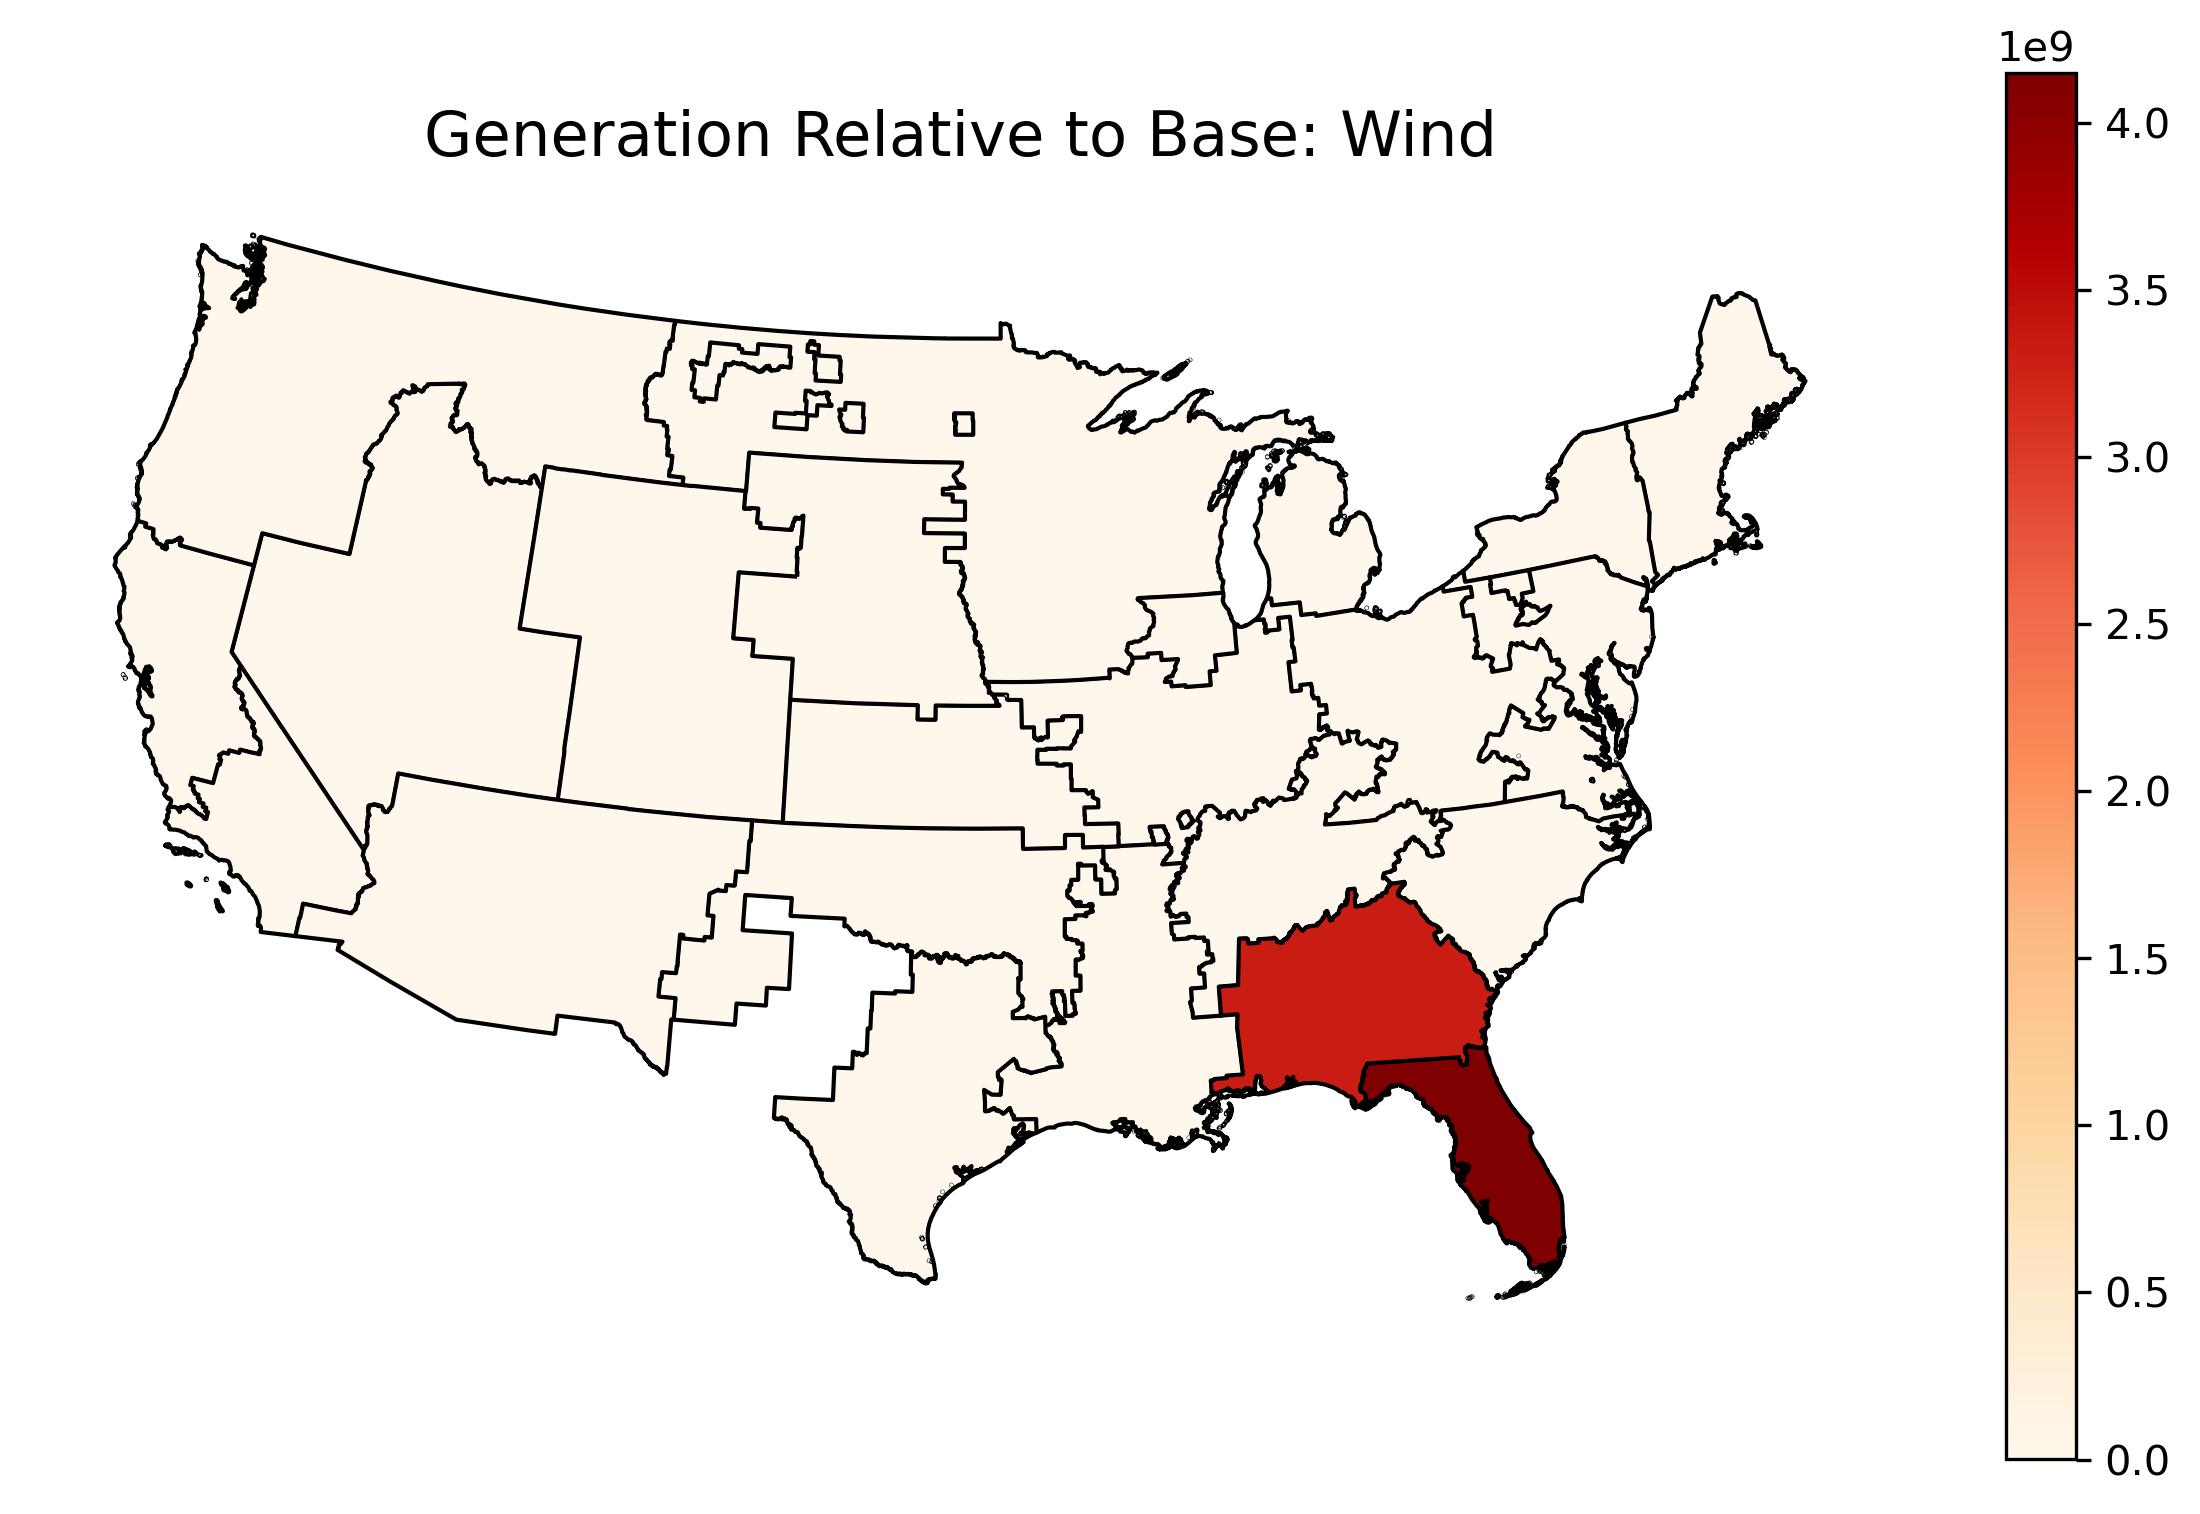
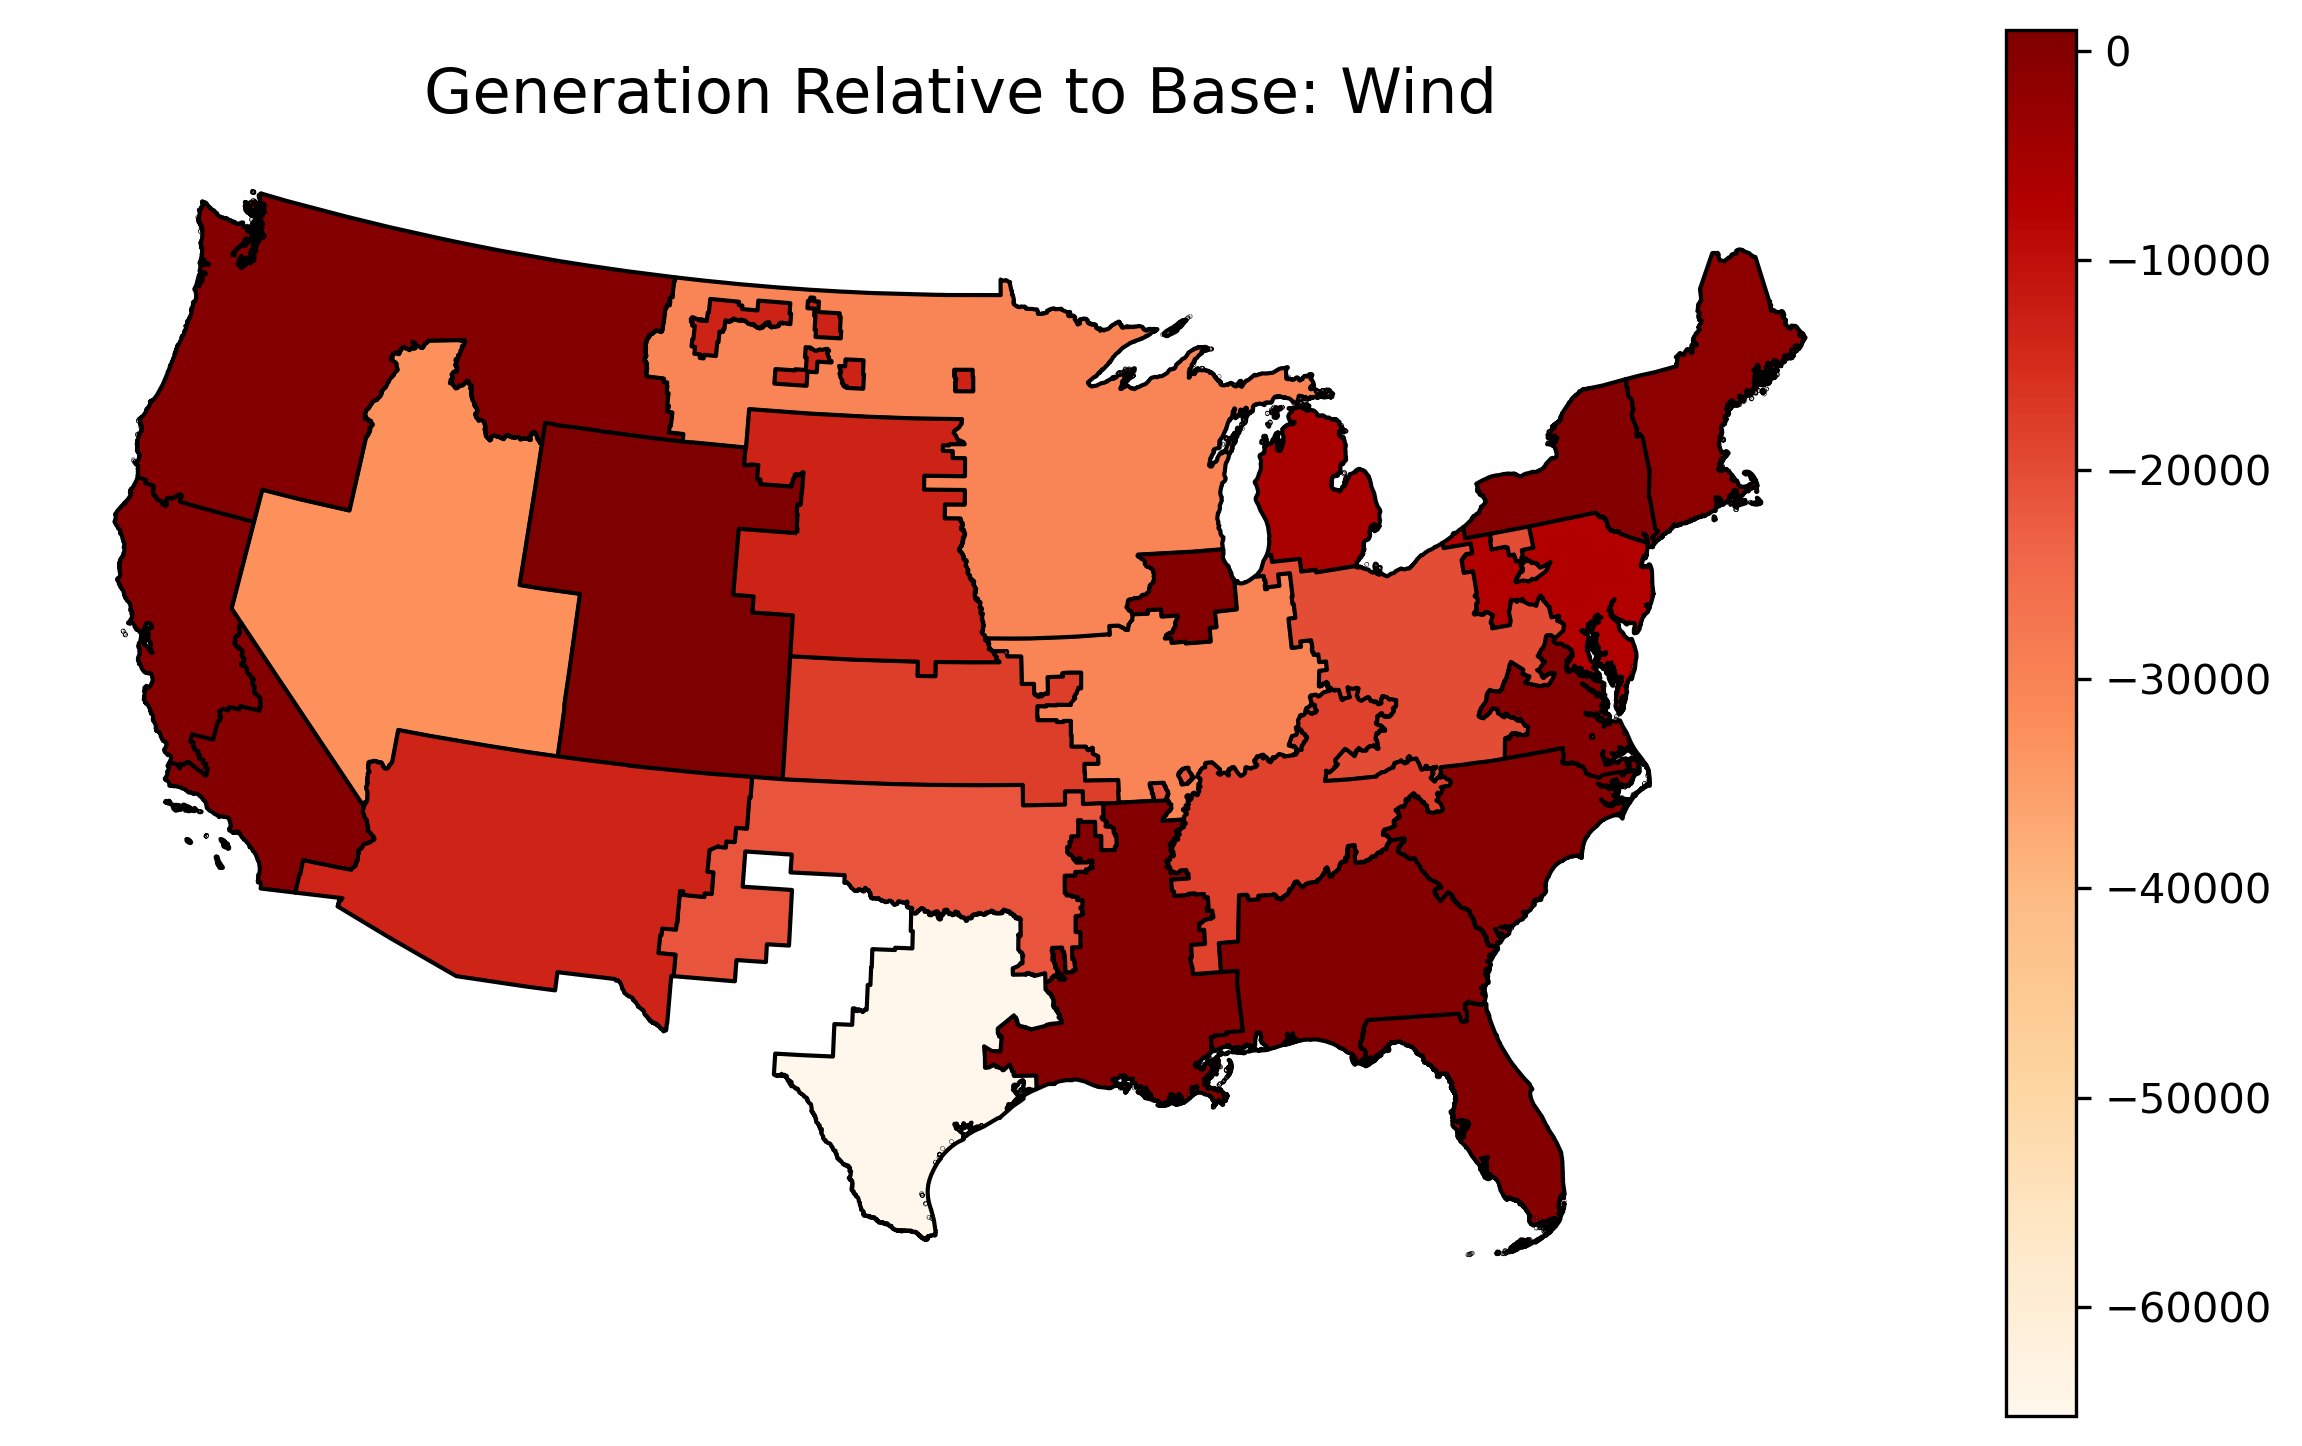
new bar chart

diff --git a/Endogenous/Endogenous_makeplots.py b/Endogenous/Endogenous_makeplots.py
@@ -276,22 +276,49 @@ for tech in ['Wind', 'Solar', 'Naturalgas', 'Coal', 'Electricity']:
             plotdata = plotdata[plotdata['period']==y]
 
             plotdata = plotdata.merge(base, on='model_regi', how='left')
-            plotdata['GenDif'] = plotdata[f'Energy_GWh_{tech}']/plotdata['Base_Energy_GWh']
+            plotdata['GenDif'] = plotdata[f'Energy_GWh_{tech}']-plotdata['Base_Energy_GWh']
+
+            vmin = plotdata['GenDif'].min()
+            vmax = plotdata['GenDif'].max()
 
             fig, ax = plt.subplots(1, 1, figsize=(10, 6))
             plotdata.plot(column='GenDif', 
-                            ax=ax, 
-                            legend=True, 
-                            cmap='OrRd',
-                            edgecolor='black')
+                        ax=ax, 
+                        legend=True, 
+                        cmap='OrRd',
+                        edgecolor='black',
+                        vmin=vmin,  # Set minimum value for the colormap
+                        vmax=vmax,
+                        legend_kwds={'label': 'Generation Difference (GWh)',  # Title for the colorbar
+                                     'orientation': 'vertical'})  # Set maximum value for the colormap
 
-            # Optional: Customize the plot further
             ax.set_title(f'Generation Relative to Base: {tech}', fontsize=15)
-            ax.set_axis_off()  # Turn off the axis for a cleaner look
-
-            # Show the plot
+            ax.set_axis_off() 
             plt.savefig(f'MIP_AirPollution/Figures/EndogenousResults/{scenario}/Dispatch_Relative_{tech}_{y}_{c}.png', dpi=300, bbox_inches='tight')  # DPI for high resolution
 
+
+dispatch = dispatch.groupby(['gen_tech', 'period', 'scenario']).agg({'Energy_GWh_typical_yr':'sum'}).reset_index()
+
+other_techs = dispatch[dispatch['scenario']==scenario]
+other_techs = other_techs[other_techs['Energy_GWh_typical_yr']<1000]
+other_techs = other_techs['gen_tech'].tolist()
+dispatch.loc[dispatch['gen_tech'].isin(other_techs), 'gen_tech'] = 'other'
+
+for year in years:
+    data_year = dispatch[dispatch['period'] == year]
+    
+    data_pivot = data_year.pivot_table(index='scenario', columns='gen_tech', values='Energy_GWh_typical_yr', aggfunc='sum')
+    
+    ax = data_pivot.plot(kind='bar', stacked=True, figsize=(10, 6), cmap='tab20')
+    
+    ax.set_title(f'Energy (GWh) by Scenario and Technology - Year {year}', fontsize=16)
+    ax.set_ylabel('Energy (GWh)', fontsize=12)
+    ax.set_xlabel('Scenario', fontsize=12)
+    
+    plt.legend(title='Technology', bbox_to_anchor=(1.05, 1), loc='upper left')
+    
+    plt.tight_layout()
+    plt.savefig(f'MIP_AirPollution/Figures/EndogenousResults/{scenario}/Dispatch_Relative_by_scenario_{year}.png', dpi=300, bbox_inches='tight')  # DPI for high resolution
 
 #####################
 ## Group Exposure
